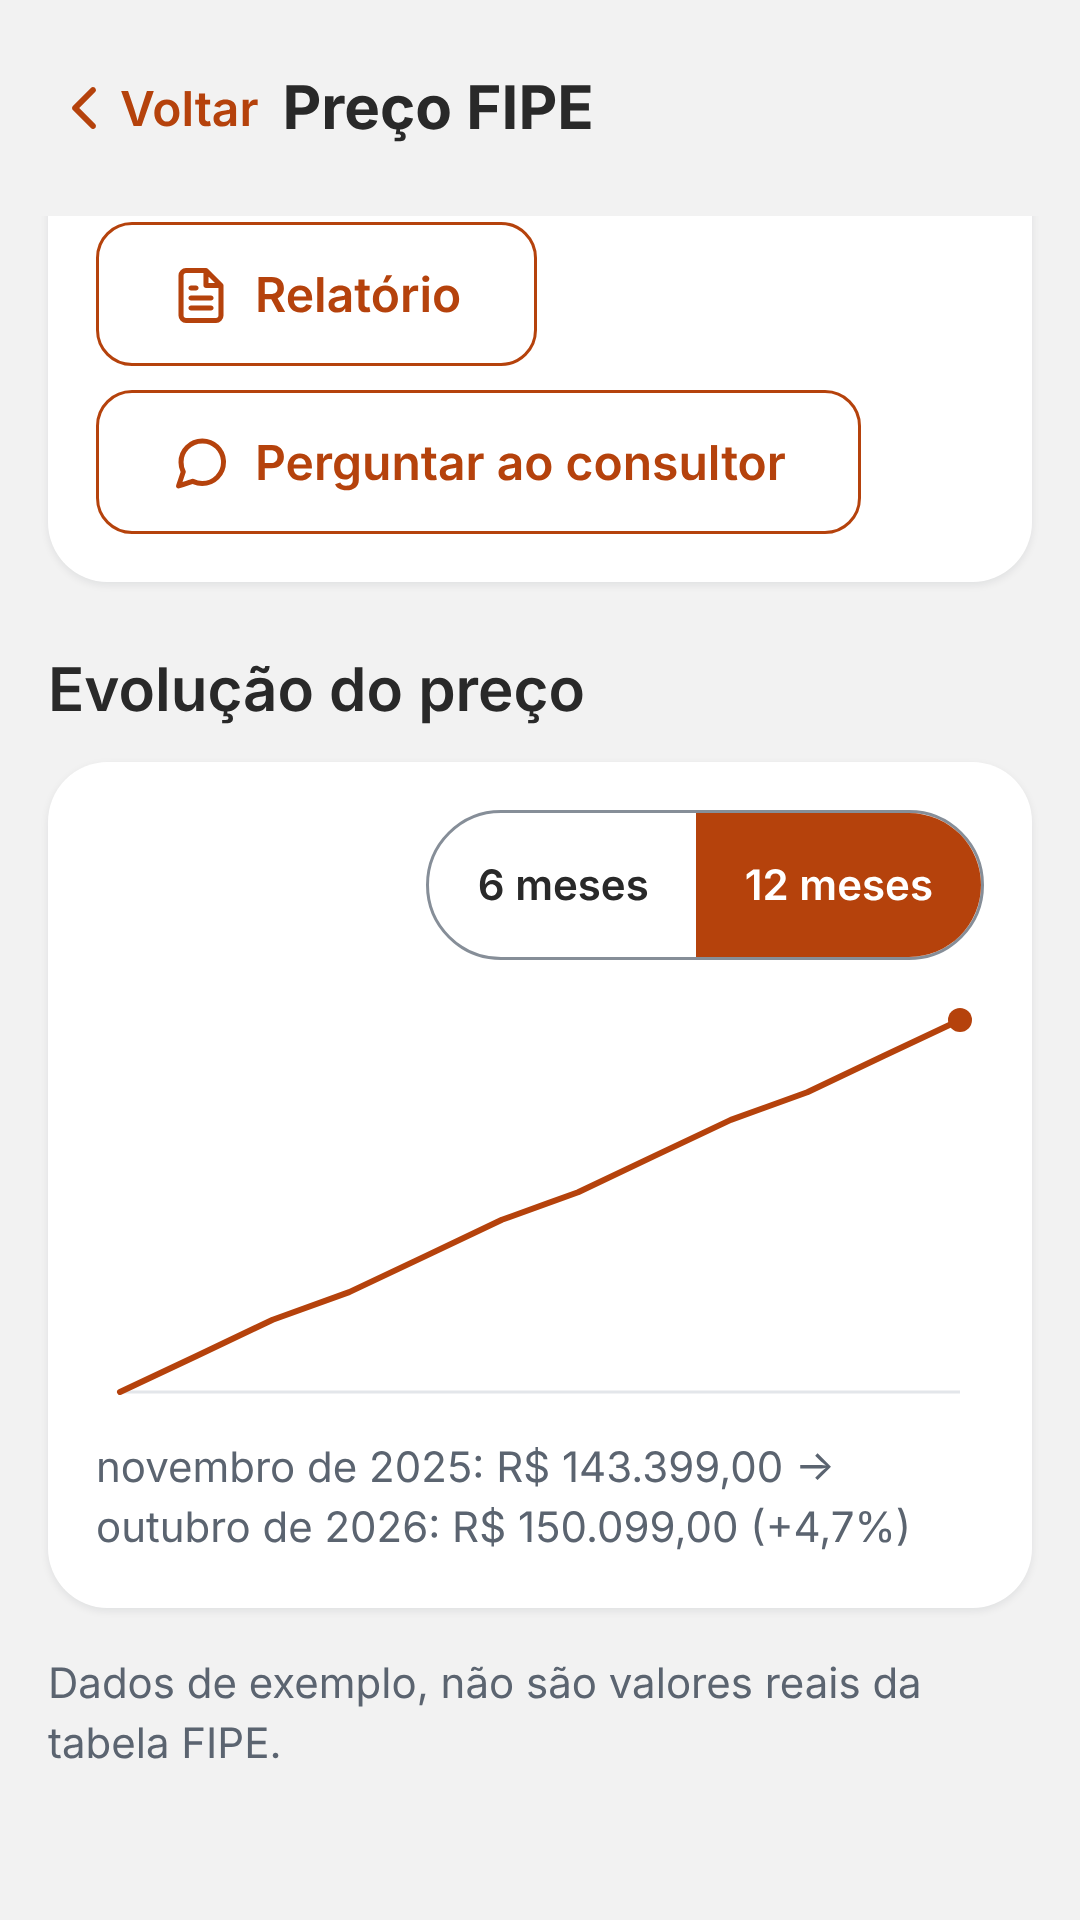
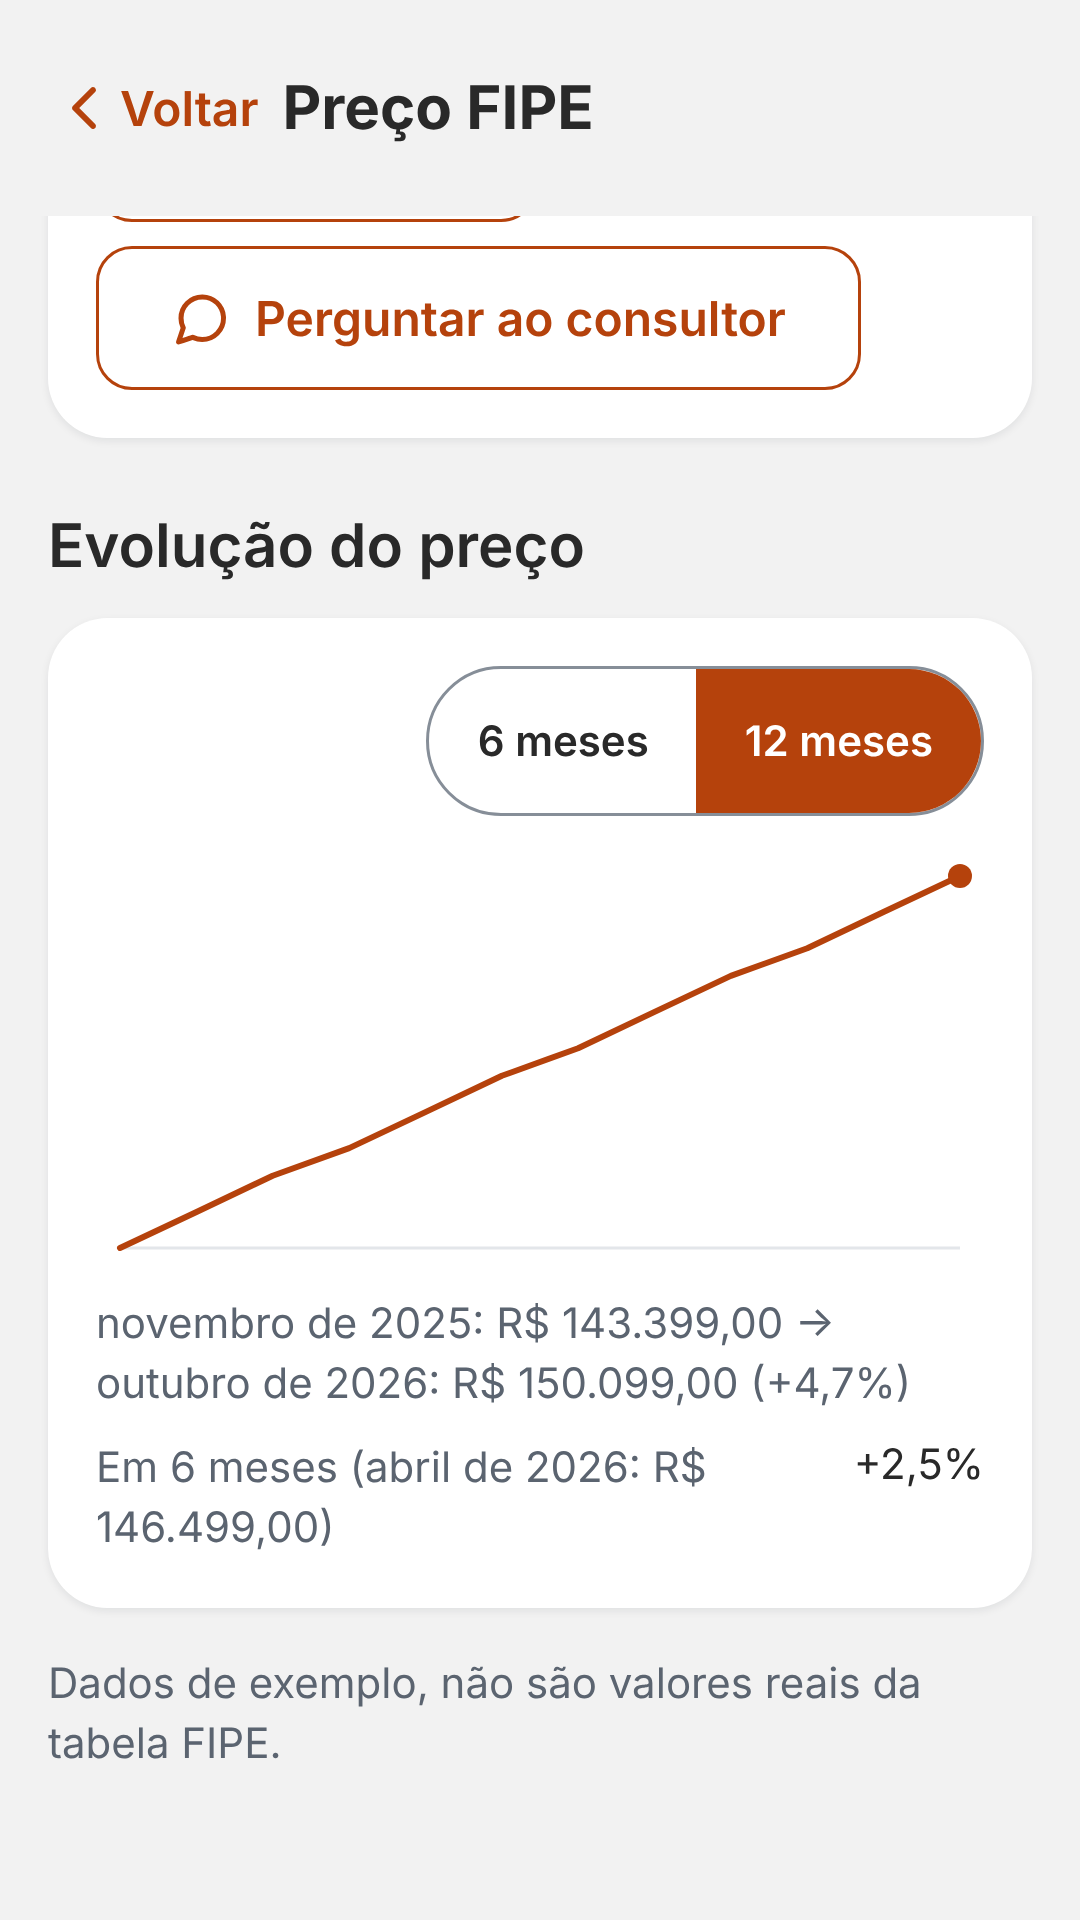
Price evolution: 6 and 12 months back
- the live FIPE source fetches this month and the 12 before (13 tables),
  4 at a time; past months stay on the phone, so only the first visit of
  a vehicle costs them
- the 6/12-month chart now spans by calendar month, from the table of 6
  (or 12) months ago to the latest one, so a missing month never
  stretches it
- vehicle screen: "Em 6 meses" and "Em 12 meses" rows with the price
  back then and the change in percent (only when that month exists)
- the FIPE import keeps 13 months by default (it kept 12, one short of
  the 12-month comparison), in the script, the workflow and the guide
- CI reads the 6- and 12-month changes of a real vehicle from the API

Claude-Session: https://claude.ai/code/session_01LWRe1Kg9LAPnQmJb5DTp4G

diff --git a/regua-app/app/tests/evolution.test.ts b/regua-app/app/tests/evolution.test.ts
@@ -1,0 +1,33 @@
+import { test } from 'node:test';
+import assert from 'node:assert/strict';
+import { changeSince, monthsBefore, pointsSince } from '../src/logic/evolution.ts';
+import type { PricePoint } from '../src/data/types.ts';
+
+const p = (referenceMonth: string, reais: number): PricePoint => ({ modelYearId: 'y', referenceMonth, priceCents: reais * 100, currency: 'BRL' });
+
+test('months before, across years', () => {
+  assert.equal(monthsBefore('2026-10', 6), '2026-04');
+  assert.equal(monthsBefore('2026-10', 12), '2025-10');
+  assert.equal(monthsBefore('2026-03', 6), '2025-09');
+  assert.equal(monthsBefore('2026-01', 1), '2025-12');
+});
+
+test('6 and 12 month windows and changes', () => {
+  const months = ['2025-10', '2025-11', '2025-12', '2026-01', '2026-02', '2026-03', '2026-04', '2026-05', '2026-06', '2026-07', '2026-08', '2026-09', '2026-10'];
+  const pts = months.map((m, i) => p(m, 200_000 - i * 1_000));
+  assert.equal(pointsSince(pts, 6).length, 7);            // April to October
+  assert.equal(pointsSince(pts, 6)[0].referenceMonth, '2026-04');
+  assert.equal(pointsSince(pts, 12).length, 13);
+  const six = changeSince(pts, 6)!;
+  assert.equal(six.from.referenceMonth, '2026-04');
+  assert.equal(six.cents, -600_000);
+  assert.equal(Math.round(six.percent * 100) / 100, -3.09);
+  assert.equal(changeSince(pts, 12)!.cents, -1_200_000);
+});
+
+test('a missing month never stretches the window; a missing start gives no change', () => {
+  const pts = [p('2025-09', 100), p('2026-05', 110), p('2026-10', 120)];   // gap, and no April
+  assert.deepEqual(pointsSince(pts, 6).map(x => x.referenceMonth), ['2026-05', '2026-10']);
+  assert.equal(changeSince(pts, 6), null);
+  assert.equal(changeSince([], 6), null);
+});

diff --git a/regua-app/app/src/data/live.ts b/regua-app/app/src/data/live.ts
@@ -58,7 +58,7 @@ export function parseYear(y: CodeName): { modelYear: number; fuel: string } {
 export function createLiveRepository(opts: LiveRepoOptions = {}): LiveRepository {
   const base = (opts.baseUrl ?? 'https://fipe.parallelum.com.br/api/v2').replace(/\/$/, '');
   const f: typeof fetch = opts.fetchImpl ?? ((input, init) => fetch(input, init));   // global looked up per call
-  const historyMonths = opts.historyMonths ?? 6;
+  const historyMonths = opts.historyMonths ?? 13;   // this month and the 12 before: the 6- and 12-month evolution
   const cache = new Map<string, Promise<unknown>>();
   const now = opts.now ?? Date.now;
 
@@ -135,9 +135,9 @@ export function createLiveRepository(opts: LiveRepoOptions = {}): LiveRepository
       const recent = (refs ?? []).slice().sort((a, b) => Number(b.code) - Number(a.code)).slice(0, historyMonths);
       const answers: (Vehicle | null)[] = [];
       if (recent.length === 0) answers.push(await get<Vehicle>(path, true));
-      // a few at a time, to stay under the API's per-minute limit
-      for (let i = 0; i < recent.length; i += 3) {
-        const batch = recent.slice(i, i + 3).map((r, j) => get<Vehicle>(`${path}?reference=${r.code}`, true)
+      // a few at a time, to stay under the API's per-minute limit (only the first visit: past months are kept on the phone)
+      for (let i = 0; i < recent.length; i += 4) {
+        const batch = recent.slice(i, i + 4).map((r, j) => get<Vehicle>(`${path}?reference=${r.code}`, true)
           .catch(e => { if (i + j === 0) throw e; return null; }));   // the latest month must load; older ones may fail
         answers.push(...await Promise.all(batch));
       }

diff --git a/regua-app/app/app/vehicle/[id].tsx b/regua-app/app/app/vehicle/[id].tsx
@@ -9,6 +9,7 @@ import { formatBRL, formatModelYear, formatMonth, formatPercent } from '../../sr
 import { compareList, favorites, history } from '../../src/storage.ts';
 import { Button, Header, Loading, Message } from '../../src/ui/kit.tsx';
 import { PriceChart } from '../../src/ui/PriceChart.tsx';
+import { changeSince } from '../../src/logic/evolution.ts';
 import { c, card, r, s, font, layout } from '../../src/theme.ts';
 import { track } from '../../src/services/track.ts';
 
@@ -94,6 +95,17 @@ export default function Vehicle() {
             ))}
           </View>
           <PriceChart points={v.history} months={months} width={width - 2 * layout['screen-gutter'] - 2 * s[4]} />
+          {[6, 12].map(m => {
+            const d = changeSince(v.history, m);
+            if (!d) return null;
+            const word = d.cents > 0 ? 'Subiu' : d.cents < 0 ? 'Caiu' : 'Igual';
+            return (
+              <View key={m} style={st.meta} accessible accessibilityLabel={`Em ${m} meses: ${word.toLowerCase()} ${formatPercent(Math.abs(d.percent)).replace(/^\+/, '')}. Há ${m} meses valia ${formatBRL(d.from.priceCents)}.`}>
+                <Text style={[st.muted, { flexShrink: 1, marginRight: s[2] }]}>Em {m} meses ({formatMonth(d.from.referenceMonth)}: {formatBRL(d.from.priceCents)})</Text>
+                <Text style={st.metaValue}>{formatPercent(d.percent)}</Text>
+              </View>
+            );
+          })}
         </View>
         {usingSampleData ? <Text style={[st.muted, { marginTop: s[4] }]}>Dados de exemplo, não são valores reais da tabela FIPE.</Text> : null}
       </ScrollView>

diff --git a/regua-app/app/src/logic/evolution.ts b/regua-app/app/src/logic/evolution.ts
@@ -1,0 +1,27 @@
+// Price evolution windows: "6 meses" goes from the table of 6 months ago to the latest one (7 tables), by calendar
+// month, so a missing month never stretches the window.
+import type { PricePoint } from '../data/types.ts';
+
+/** "2026-10" minus 6 -> "2026-04" */
+export function monthsBefore(ref: string, n: number): string {
+  const [y, m] = ref.split('-').map(Number);
+  const t = y * 12 + (m - 1) - n;
+  return `${Math.floor(t / 12)}-${String((t % 12) + 1).padStart(2, '0')}`;
+}
+
+/** points (sorted oldest first) from `months` months before the latest one up to it */
+export function pointsSince(points: PricePoint[], months: number): PricePoint[] {
+  if (points.length === 0) return [];
+  const from = monthsBefore(points[points.length - 1].referenceMonth, months);
+  return points.filter(p => p.referenceMonth >= from);
+}
+
+/** change from exactly `months` months ago to the latest table; null when that month is not in the data */
+export function changeSince(points: PricePoint[], months: number): { from: PricePoint; cents: number; percent: number } | null {
+  if (points.length === 0) return null;
+  const last = points[points.length - 1];
+  const from = points.find(p => p.referenceMonth === monthsBefore(last.referenceMonth, months));
+  if (!from || from.priceCents <= 0) return null;
+  const cents = last.priceCents - from.priceCents;
+  return { from, cents, percent: (cents / from.priceCents) * 100 };
+}

diff --git a/regua-app/app/src/ui/PriceChart.tsx b/regua-app/app/src/ui/PriceChart.tsx
@@ -2,11 +2,12 @@ import { View, Text } from 'react-native';
 import Svg, { Circle, Path } from 'react-native-svg';
 import type { PricePoint } from '../data/types.ts';
 import { formatBRL, formatMonth, formatPercent } from '../format.ts';
+import { pointsSince } from '../logic/evolution.ts';
 import { c, s, font } from '../theme.ts';
 
 /** Monthly line chart with a text summary for screen readers (F02-E2). One month shows a note instead (F02-E1). */
 export function PriceChart({ points, months, width }: { points: PricePoint[]; months: number; width: number }) {
-  const pts = points.slice(-months);
+  const pts = pointsSince(points, months);
   if (pts.length === 0) return null;
   if (pts.length < 2) {
     return <Text style={{ color: c.muted, fontSize: font.sm.fontSize }}>Só há um mês de dados para este veículo. O gráfico aparece quando houver mais meses.</Text>;

diff --git a/regua-app/app/PUBLICAR.md b/regua-app/app/PUBLICAR.md
@@ -67,7 +67,7 @@ O jeito mais simples: o **GitHub Actions** cria as tabelas e importa a tabela FI
 8. Ative os backups diários (Database › Backups). Para conferir: no SQL Editor, `select count(*) from price_points;`
 
 Alternativa sem GitHub: no computador, `DATABASE_URL=... node scripts/migrate.mts` e
-`DATABASE_URL=... FIPE_API_TOKEN=... node scripts/import-fipe.mts --months 12`.
+`DATABASE_URL=... FIPE_API_TOKEN=... node scripts/import-fipe.mts --months 13`.
 
 **As funções do Supabase (passos 3b, 3c, 3e)** e o `supabase/schedule.sql` continuam valendo para placa, consultor e
 histórico. A função `ingest-fipe` é uma alternativa ao import pelo GitHub; não precisa das duas.
